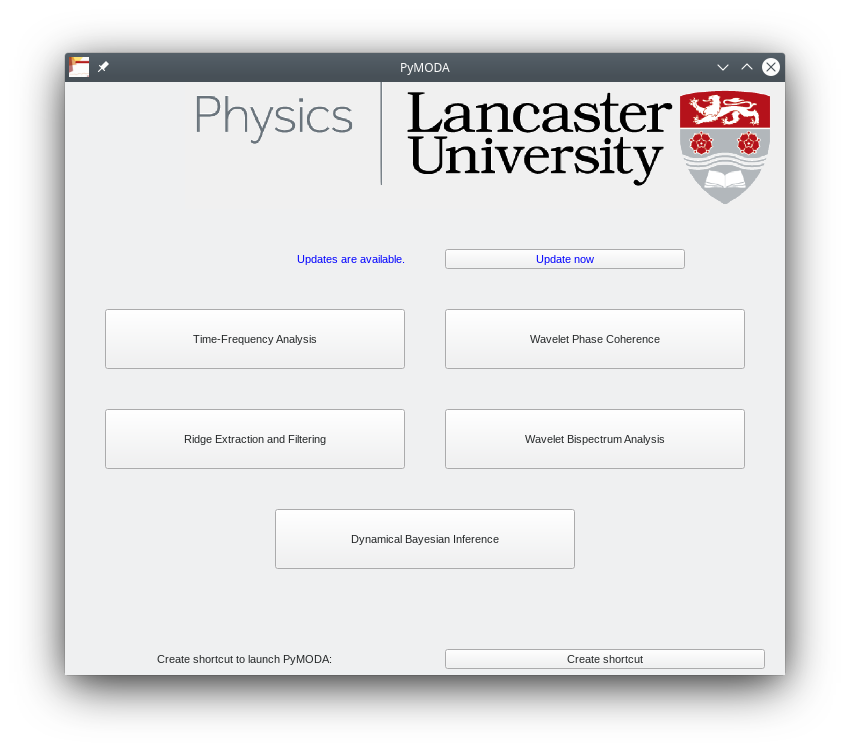
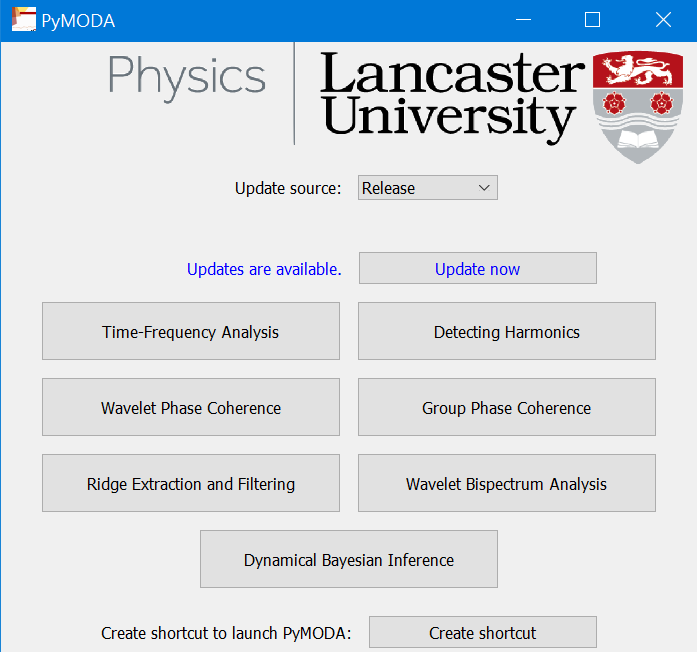
Update docs

diff --git a/README.md b/README.md
@@ -115,7 +115,9 @@ For each window, the name of the struct/dictionary is as follows:
 | Name | Window | 
 | --- | --- |
 | `TFData` | Time-Frequency Analysis | 
+| `DHData` | Detecting Harmonics |
 | `PCData` | Wavelet Phase Coherence |
+| `GCData` | Group Phase Coherence |
 | `REData` | Ridge Extraction and Filtering | 
 | `BAData` | Wavelet Bispectrum Analysis | 
 | `DBData` | Dynamical Bayesian Inference |
